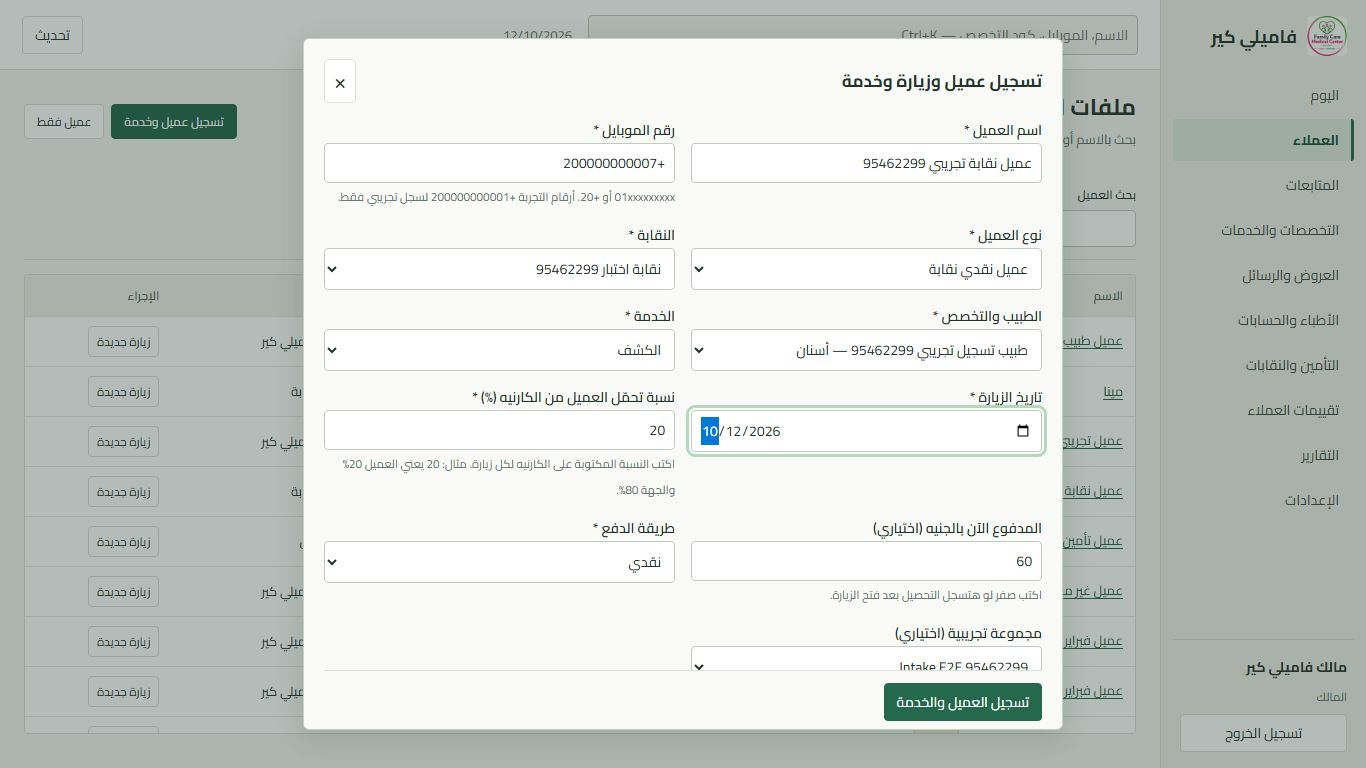
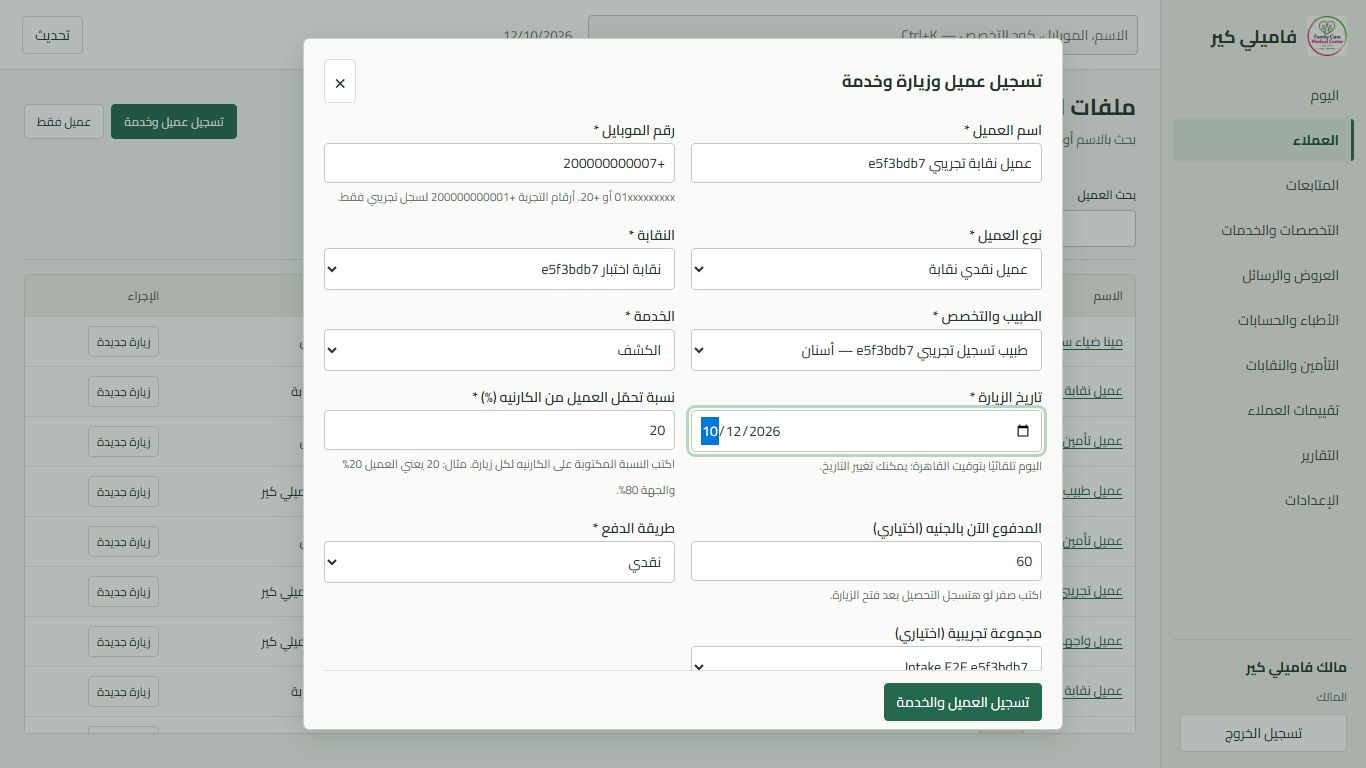
Add multiple services to atomic visit intake and clarify cancellation

diff --git a/src/clinic/Patients.tsx b/src/clinic/Patients.tsx
@@ -4,6 +4,7 @@ import {command,patientIntake,visitIntake,text,date,label,today,percentLabel,typ
 import {useClinic,patientPaid} from './store';
 import {Badge,Dialog,Form,Heading,Table,type Field} from './ui';
 import {money,minor,percent,roundShare} from '../domain/money';
+import ExtraServices,{type SelectedService} from './ExtraServices';
 const covered=(type:unknown)=>type==='insurance_credit'||type==='syndicate_cash';
 const copayField:Field={key:'co_pay_bps',label:'نسبة تحمّل العميل من الكارنيه (%)',type:'percent',required:true,blankInitially:true,
  when:values=>covered(values.client_type_code),hint:'اكتب النسبة المكتوبة على الكارنيه لكل زيارة. مثال: 20 يعني العميل 20% والجهة 80%.'};
@@ -12,7 +13,7 @@ const paymentFields:Field[]=[
  {key:'method',label:'طريقة الدفع',type:'select',required:true,when:values=>Number(values.amount_minor)>0,
   options:[{value:'cash',label:'نقدي'},{value:'card',label:'بطاقة'},{value:'transfer',label:'تحويل'}]}
 ];
-function IntakePreview({values,clientType}:{values:Record<string,unknown>;clientType?:string}){
+function IntakePreview({values,clientType,extras=[]}:{values:Record<string,unknown>;clientType?:string;extras?:SelectedService[]}){
  const {rows}=useClinic();const type=clientType??text(values.client_type_code);
  if(!values.service_id)return null;
  const listType=covered(type)?'family_care_cash':type;
@@ -26,7 +27,9 @@ function IntakePreview({values,clientType}:{values:Record<string,unknown>;client
   const homeService=rows('services').find(row=>row.active&&row.specialty_id===doctor?.specialty_id&&row.pricing_kind==='home');
   const homePrice=values.location==='home'?rows('service_prices').find(row=>row.version_id===version?.id&&row.service_id===homeService?.id):null;
   if(values.location==='home'&&!homePrice)return <p className="notice wide">رسم الزيارة المنزلية غير متاح لهذا التاريخ. راجع قائمة الأسعار.</p>;
-  const total=BigInt(text(price.price_minor))+BigInt(text(homePrice?.price_minor||0));const patient=roundShare(total,bps);
+  let total=BigInt(text(price.price_minor))+BigInt(text(homePrice?.price_minor||0));
+  for(const item of extras){if(!item.service_id)continue;const extraPrice=rows('service_prices').find(row=>row.version_id===version?.id&&row.service_id===item.service_id);if(!extraPrice)return <p className="notice wide">سعر إحدى الخدمات غير متاح لهذا التاريخ.</p>;total+=BigInt(text(extraPrice.price_minor))*BigInt(item.quantity);}
+  const patient=roundShare(total,bps);
   const paid=minor(text(values.amount_minor||'0'));
   return <p className="notice wide">{values.location==='home'?'إجمالي الخدمة والزيارة المنزلية':'سعر الخدمة'} {money(total)} · العميل عليه {money(patient)} ({percentLabel(bps)}) · على الجهة {money(total-patient)} · المدفوع الآن {money(paid)} · المتبقي على العميل {money(patient-BigInt(paid))}</p>;
  }catch{return null;}
@@ -45,6 +48,7 @@ export function patientFields(types:Row[],insurers:Row[],unions:Row[],specialtie
 ];}
 export function VisitBooking({patient,close}:{patient:Row;close:()=>void}) {
  const {rows,refresh}=useClinic();const navigate=useNavigate();const [key]=useState(()=>crypto.randomUUID());
+ const [extras,setExtras]=useState<SelectedService[]>([]);
  return <Dialog title={`زيارة وخدمة — ${text(patient.name)}`} close={close}><Form initial={{visit_date:today(),location:'clinic',method:'cash',amount_minor:0}} fields={[
  {key:'doctor_id',label:'الطبيب',required:true,type:'select',clearOnChange:['service_id'],options:rows('doctors').filter(row=>row.active).map(row=>({value:row.id,label:text(row.name)}))},
  {key:'service_id',label:'الخدمة',type:'select',required:true,when:values=>Boolean(values.doctor_id),options:values=>{
@@ -57,10 +61,10 @@ export function VisitBooking({patient,close}:{patient:Row;close:()=>void}) {
  ]} submit={async values=>{
   const result=await visitIntake({idempotency_key:key,
    visit:{patient_id:patient.id,doctor_id:values.doctor_id,visit_date:values.visit_date,visit_time:values.visit_time,location:values.location,...(covered(patient.client_type_code)?{co_pay_bps:values.co_pay_bps}:{})},
-   service:{service_id:values.service_id},
+   service:{service_id:values.service_id},additional_services:extras,
    ...(Number(values.amount_minor)>0?{payment:{amount_minor:values.amount_minor,method:values.method}}:{})});
   await refresh();close();navigate(`/visits/${text(result.visit_id)}`);
- }} label="تسجيل الزيارة والخدمة">{values=><IntakePreview values={values} clientType={text(patient.client_type_code)}/>}</Form></Dialog>;
+ }} label="تسجيل الزيارة والخدمة">{values=><><ExtraServices doctorId={values.doctor_id} items={extras} onChange={setExtras}/><IntakePreview values={values} extras={extras} clientType={text(patient.client_type_code)}/></>}</Form></Dialog>;
 }
 function BookingOnly({patient,close}:{patient:Row;close:()=>void}){
  const {rows,refresh}=useClinic();const navigate=useNavigate();
@@ -75,6 +79,7 @@ export default function Patients() {
  const {id}=useParams();const navigate=useNavigate();const {data,rows,name,profile,refresh}=useClinic();
  const [search,setSearch]=useState('');const [editing,setEditing]=useState<Row|null|undefined>();const [booking,setBooking]=useState<Row|null>(null);const [bookingOnly,setBookingOnly]=useState<Row|null>(null);
  const [quickKey,setQuickKey]=useState<string|null>(null);const [editKey,setEditKey]=useState<string|null>(null);
+ const [extras,setExtras]=useState<SelectedService[]>([]);
  const patient=rows('patients').find(row=>row.id===id);
  const fields=patientFields(rows('client_types'),rows('insurance_companies'),rows('unions'),rows('specialties'),rows('demo_batches'));
  const quickFields:Field[]=[...fields.filter(field=>['name','phone_e164','client_type_code','insurer_id','union_id'].includes(field.key)),
@@ -137,10 +142,10 @@ export default function Patients() {
    for(const key of ['doctor_id','service_id','visit_date','co_pay_bps','amount_minor','method'])delete patient[key];
    const result=await patientIntake({idempotency_key:quickKey,patient,
     visit:{doctor_id:values.doctor_id,visit_date:values.visit_date,location:'clinic',...(covered(values.client_type_code)?{co_pay_bps:values.co_pay_bps}:{})},
-    service:{service_id:values.service_id},
+    service:{service_id:values.service_id},additional_services:extras,
     ...(Number(values.amount_minor)>0?{payment:{amount_minor:values.amount_minor,method:values.method}}:{})});
    await refresh();setQuickKey(null);navigate(`/visits/${text(result.visit_id)}`);
- }}>{values=><IntakePreview values={values}/>}</Form></div></Dialog>}
+ }}>{values=><><ExtraServices doctorId={values.doctor_id} items={extras} onChange={setExtras}/><IntakePreview values={values} extras={extras}/></>}</Form></div></Dialog>}
  {booking&&<VisitBooking patient={booking} close={()=>setBooking(null)}/>}
  {bookingOnly&&<BookingOnly patient={bookingOnly} close={()=>setBookingOnly(null)}/>}
  </>;

diff --git a/src/clinic/Visit.tsx b/src/clinic/Visit.tsx
@@ -23,13 +23,13 @@ export default function Visit(){
  {!isDoctor&&<><div className="ledger-summary"><span>الإجمالي <strong>{money(v.total_minor)}</strong></span><span>حصة العميل <strong>{money(v.co_pay_minor)}</strong></span><span>على الجهة <strong>{money(v.covered_minor)}</strong></span><span>المحصّل <strong>{money(paid)}</strong></span><span>المتبقي <strong>{money(remaining)}</strong></span></div>
  {!v.confirmed&&<p className="notice">الحجز بانتظار ديبوزيت {money(v.deposit_required_minor)}. التحصيل المسجل {money(paid)}.</p>}
  {v.deposit_exemption_reason==='fully_covered_insurance'&&<p className="notice">الجهة تغطي الزيارة بالكامل؛ لا توجد حصة أو ديبوزيت على العميل.</p>}
- <div className="toolbar"><button className="primary" disabled={locked||Boolean(v.offer_id)} onClick={()=>setDialog('service')}>إضافة خدمة</button><button disabled={locked||Boolean(v.offer_id)||!lines.length} onClick={()=>setDialog('offer')}>تطبيق كود عرض</button><button disabled={remaining<=0||v.status==='void'} onClick={()=>{setPaymentKey(crypto.randomUUID());setDialog('payment');}}>تسجيل تحصيل</button><span>{locked?'الفاتورة مثبتة؛ الأسعار والتحصيل محفوظان.':v.offer_id?'العرض اتطبق على الخدمات الحالية.':'اختار الخدمات، وبعدها طبّق العرض وسجّل التحصيل.'}</span></div></>}
+ <div className="toolbar"><button className="primary" disabled={locked||Boolean(v.offer_id)} onClick={()=>setDialog('service')}>إضافة خدمة</button><button disabled={locked||Boolean(v.offer_id)||!lines.length} onClick={()=>setDialog('offer')}>تطبيق كود عرض</button><button disabled={remaining<=0||v.status==='void'} onClick={()=>{setPaymentKey(crypto.randomUUID());setDialog('payment');}}>تسجيل تحصيل</button><span>{locked?'الفاتورة مثبتة؛ إلغاء خدمة بعد التحصيل أو إنهاء الزيارة يحتاج تصحيحًا ماليًا مسجلًا من الأدمن.':v.offer_id?'العرض اتطبق على الخدمات الحالية.':'اختار الخدمات، وبعدها طبّق العرض وسجّل التحصيل.'}</span></div></>}
  <h2>الخدمات</h2><Table rows={lines} columns={[
  {label:'الخدمة',render:row=><>{name('services',row.service_id)} {row.is_gift?<Badge tone="success">هدية</Badge>:row.is_bundle?<Badge>باقة</Badge>:null}</>},
  {label:'الطبيب',render:row=>name('doctors',row.doctor_id)},{label:'العدد',numeric:true,render:row=>text(row.quantity)},
  {label:'السعر وقت الزيارة',numeric:true,render:row=>money(row.unit_price_minor)},{label:'الخصم',numeric:true,render:row=>money(row.discount_minor)},
  {label:'الإجمالي',numeric:true,render:row=>money(row.line_total_minor)},
- ...(!isDoctor?[{label:'الإجراء',render:(row:Row)=><button disabled={locked||Boolean(v.offer_id)||task.busy} onClick={()=>{if(window.confirm('إزالة الخدمة من الفاتورة قبل تثبيتها؟'))void task.run(()=>command('line_remove',{id:row.id}));}}>إزالة</button>}]:[])
+ ...(!isDoctor?[{label:'الإجراء',render:(row:Row)=><button disabled={locked||Boolean(v.offer_id)||task.busy} onClick={()=>{if(window.confirm('إلغاء هذه الخدمة قبل تثبيت الفاتورة؟ لو ضمن باقة، تُلغى الباقة وخدماتها معًا.'))void task.run(()=>command('line_remove',{id:row.id}));}}>إلغاء الخدمة</button>}]:[])
  ]}/>
  <h2>الكشف والمتابعة</h2><p>{text(v.diagnosis)||'لم يُسجل تشخيص بعد.'}</p><p>{text(v.instructions)||'لم تُسجل تعليمات بعد.'}</p>
  <div className="toolbar"><button disabled={v.status==='void'} onClick={()=>setDialog('clinical')}>{v.status==='completed'?'تعديل الكشف / إضافة متابعة':'الكشف وإنهاء الزيارة'}</button><button disabled={v.status==='void'} onClick={()=>setDialog('followup')}>متابعة جديدة</button>{profile.role==='owner'&&v.status!=='void'&&<button disabled={task.busy} onClick={()=>{if(window.confirm('إلغاء الزيارة؟ يجب عكس التحصيل والتسويات أولاً.'))void task.run(()=>command('visit_void',{id:v.id}));}}>إلغاء الزيارة</button>}</div>

diff --git a/src/clinic/ExtraServices.tsx b/src/clinic/ExtraServices.tsx
@@ -1,0 +1,16 @@
+import {useEffect} from 'react';
+import {useClinic} from './store';
+import {text,type Row} from './api';
+export type SelectedService={service_id:string;quantity:number};
+export default function ExtraServices({doctorId,items,onChange}:{doctorId:unknown;items:SelectedService[];onChange:(items:SelectedService[])=>void}){
+ const {rows}=useClinic();
+ useEffect(()=>{onChange([]);},[doctorId,onChange]);
+ const doctor=rows('doctors').find(row=>row.id===doctorId);
+ const services=rows('services').filter((row:Row)=>row.active&&row.specialty_id===doctor?.specialty_id&&row.pricing_kind!=='home');
+ if(!doctor)return null;
+ return <div className="wide extra-services">{items.map((item,index)=><div className="extra-service" key={index}>
+ <label>الخدمة الإضافية {index+1}<select required value={item.service_id} onChange={event=>onChange(items.map((value,i)=>i===index?{...value,service_id:event.target.value}:value))}><option value="">اختار…</option>{services.map(service=><option key={service.id} value={service.id}>{text(service.name)}</option>)}</select></label>
+ <label>العدد للخدمة {index+1}<input type="number" required min="1" max="1000" value={item.quantity} onChange={event=>onChange(items.map((value,i)=>i===index?{...value,quantity:Number(event.target.value)}:value))}/></label>
+ <button type="button" onClick={()=>onChange(items.filter((_,i)=>i!==index))}>إلغاء الخدمة {index+1}</button>
+ </div>)}<button type="button" disabled={items.length>=29} onClick={()=>onChange([...items,{service_id:'',quantity:1}])}>إضافة خدمة أخرى</button></div>;
+}

diff --git a/src/styles/tables.css b/src/styles/tables.css
@@ -1,4 +1,8 @@
 .table-scroll-hint { display: none; }
+.extra-services { display:flex; flex-direction:column; gap:12px; }
+.extra-service { display:flex; align-items:end; gap:8px; flex-wrap:wrap; }
+.extra-service label:first-child { flex:1; min-width:180px; }
+.extra-service input { width:85px; }
 .payer-account { display:flex; flex-direction:column; align-items:flex-start; gap:3px; min-width:170px; text-align:start; white-space:normal; }
 .payer-account span { color:#285b31; font-weight:600; font-variant-numeric:tabular-nums; }
 .pending-payer-visit,.pending-payer-services { display:flex; flex-direction:column; gap:4px; white-space:normal; }

diff --git a/docs/STATE.md b/docs/STATE.md
@@ -1,5 +1,11 @@
 # حالة المشروع — 09/10/2026
 
+## أكثر من خدمة وإلغاء خدمة قبل التثبيت — 12/10/2026
+
+نجح 16 اختبار مال وقاعدة وجميع رحلات المتصفح الست بعد تعديل محدد حقل الطبيب في اختبار الاستقبال. اختُبرت الكمية وحذف الاختيار قبل الحفظ وحذف سطر من زيارة مفتوحة ومعاينة حصة العميل والجهة، ورفض خدمة إضافية غير صالحة دون حفظ جزئي وإعادة المحاولة دون تكرار. نجحت lint وtypecheck وbuild وverify وإعادة فحص الترحيلات. لقطات النموذج متعدد الخدمات في `docs/review/multiple-services-*`. أُرشفت مجموعات الاختبار الجديدة فقط.
+
+أضيف «إضافة خدمة أخرى» في تسجيل العميل والزيارة الجديدة لعميل مسجل، مع كمية لكل خدمة إضافية وزر إلغاء قبل الحفظ ومعاينة الإجمالي. تحفظ الترحيلة `20261012192243_intake_multiple_services.sql` الخدمات الإضافية في معاملة الاستقبال نفسها قبل التحصيل، مع حفظ إعادة المحاولة والرفض الذري. زر إزالة الخدمة من الزيارة صار «إلغاء الخدمة» ويوضح أن الباقة تُلغى ككل. يبقى الإلغاء المباشر قبل التحصيل والعروض وإنهاء الزيارة؛ التصحيح بعد التثبيت يحتاج مسار الأدمن المالي المسجل. الترحيلة مطبقة؛ الفحوص والنشر قيد الإنجاز.
+
 ## مستحق الطبيب عند إنهاء الزيارة — 12/10/2026
 
 اكتمل التحقق: 16 اختبار قاعدة ومال وجميع رحلات المتصفح الست نجحت؛ اختبار الدور أعيد بعد تحديث تسمية الخدمات المنفذة. نجحت lint وtypecheck وbuild وverify وإعادة فحص الترحيلات. أُرشفت مجموعات هذا الاختبار فقط. نُشر البناء `index-zO3aOl_A.js` وتأكدت استجابته ووجود واجهة المستحق فيه.

diff --git a/docs/USER_GUIDE.md b/docs/USER_GUIDE.md
@@ -41,6 +41,8 @@
 
 ## إدارة الزيارة والكشف والتحصيل
 
+عند تسجيل عميل وخدمة أو فتح زيارة جديدة لعميل مسجل، اختر الخدمة الأولى ثم «إضافة خدمة أخرى» لاختيار خدمات إضافية وكمياتها. اضغط «إلغاء الخدمة» بجوار الاختيار الزائد قبل الحفظ؛ المعاينة تتحدث تلقائياً. بعد فتح الزيارة يمكن إلغاء خدمة من جدول الخدمات قبل تسجيل التحصيل أو تطبيق العرض أو إنهاء الزيارة. إلغاء سطر ضمن باقة يلغي الباقة وخدماتها معاً. بعد تثبيت الفاتورة يتولى المالك التصحيح المالي بإجراءات العكس والإلغاء المسجلة.
+
 1. في الزيارة اضغط «إضافة خدمة»، واختر الخدمة والطبيب المنفذ والعدد. تظهر الأسعار وفق نوع العميل وقائمة الأسعار السارية. ويمكن إضافة كود عرض قبل تسجيل التحصيل إذا كان العرض صالحاً للتخصص والزيارة.
 2. راجع إجمالي الزيارة وحصة العميل والتأمين والمحصّل والمتبقي. إذا احتاج العميل للدفع على دفعات، سجّل كل دفعة على حدة؛ لكل تحصيل إيصال يمكن عرضه وطباعته.
 3. اضغط «الكشف وإنهاء الزيارة»، وسجّل التشخيص أو ملاحظات الكشف. التعليمات اختيارية. لإضافة موعد متابعة من النموذج، أدخل التاريخ والغرض؛ ويمكن إضافة الوقت.

diff --git a/docs/ASSUMPTIONS.md b/docs/ASSUMPTIONS.md
@@ -12,6 +12,8 @@
 
 ## Financial and doctor rules
 
+- Quick intake and returning-patient visits accept a primary service and up to 29 additional service rows with quantities, saved atomically before the optional receipt. Additional rows use the selected visit doctor. Removing a draft service recalculates the visit; bundled lines are removed as one bundle. Posted/paid/completed visits retain their financial records and require the owner's existing audited full-visit reversal/correction flow rather than deleting a charged service.
+
 - Monetary amounts are integer piastres. Percentages are integer basis points (10000 = 100%). Round half-up once at the final share, then subtract to calculate the other share.
 - Doctor categories are dentist, percentage and renting, with Arabic labels exactly requested. Dentists default to no revenue share; optional share configuration works like percentage doctors. Per-service rates override the doctor's default. Renting doctors have configurable calendar-month rent by default, with custom start/end periods supported; no automatic prorating.
 - Starting 12/10/2026, the owner explicitly chose doctor entitlement on visit completion, based on each line's price after discounts and its stored percentage, independent of patient receipts and payer settlements. Round each line half-up to a piastre. Open and void visits contribute no entitlement. Completion time determines the statement period; old completed visits with no completion timestamp use their service date. Existing receipt/settlement allocations remain untouched as historical collection records. Rent due/paid stays separate. No doctor payout is implied by showing entitlement.

diff --git a/docs/PLAN.md b/docs/PLAN.md
@@ -1,5 +1,9 @@
 # Delivery checklist
 
+- [x] Allow additional services and quantities in both quick intake and returning-patient visit forms, with live totals and draft cancellation.
+- [x] Verify multi-service atomicity, idempotency, cancellation and desktop/phone E2E; 16 money/database tests and all six browser journeys passed after updating the doctor field selector.
+- [ ] Publish the multi-service change and verify the live build.
+
 - [x] Calculate doctor entitlement from completed service prices after discount independently of collections; preserve stored rates and prevent double counting receipts.
 - [x] Verify full E2E and desktop/phone screens for doctor entitlement; 16 database/money tests and all six browser journeys passed (role label assertion updated and rerun).
 - [x] Publish the doctor entitlement change and verify the live build `index-zO3aOl_A.js`.
